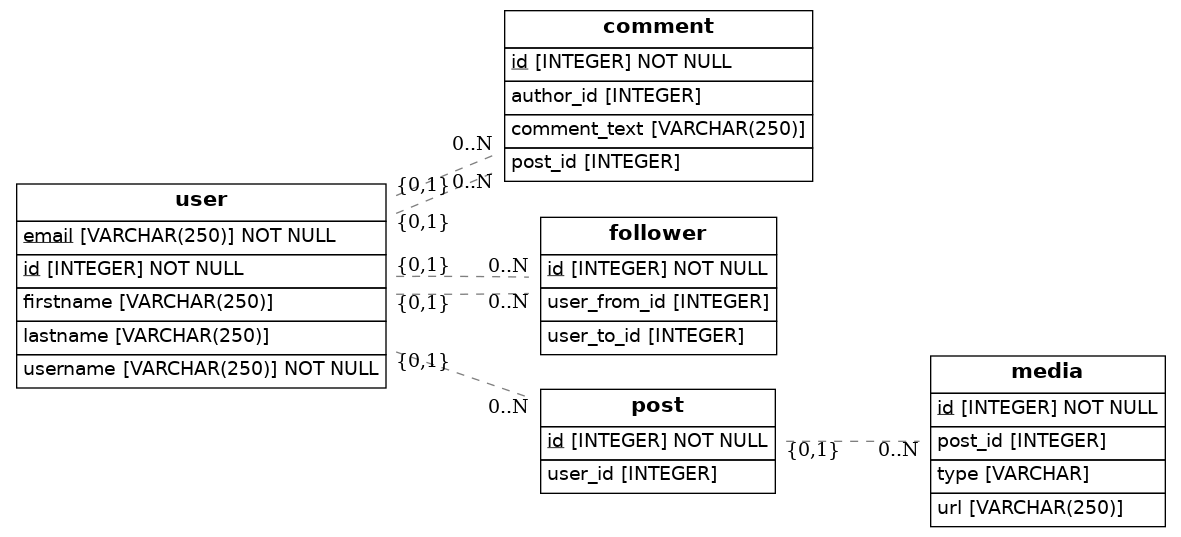
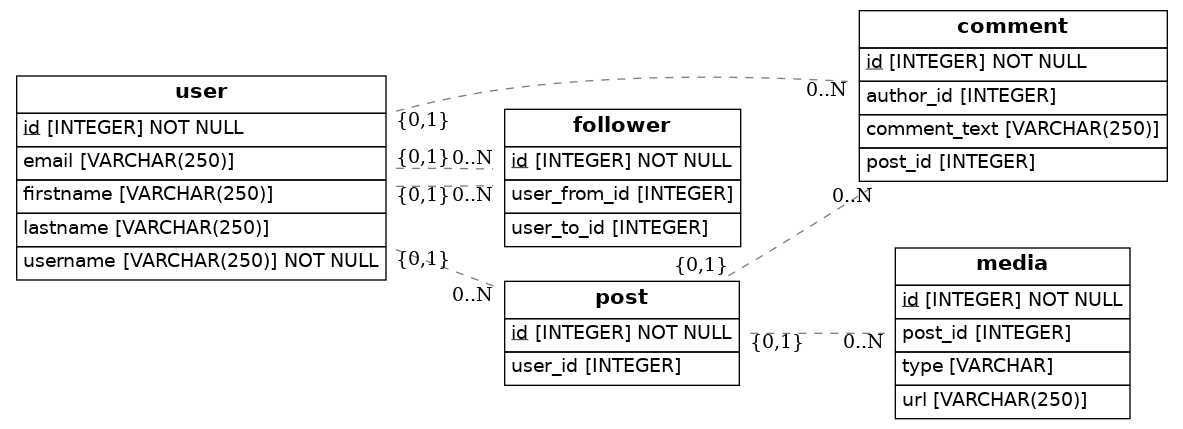
Cambios keys

Changed region(s): [[0.0, 0.0, 1.0, 1.0]]

diff --git a/src/models.py b/src/models.py
@@ -13,29 +13,33 @@ class User(Base):
     username = Column(String(250), nullable=False)
     firstname = Column(String(250))
     lastname = Column(String(250))
-    email = Column(String(250), primary_key=True)
-
+    email = Column(String(250), unique=True)  
 
 class Comment(Base):
     __tablename__ = 'comment'
     id = Column(Integer, primary_key=True)
     comment_text = Column(String(250))
     author_id = Column(Integer, ForeignKey('user.id'))
-    post_id = Column(Integer, ForeignKey('user.id'))
-    user = relationship(User)
+    post_id = Column(Integer, ForeignKey('post.id'))  
+
+    user = relationship("User")  
+    post = relationship("Post")  
 
 class Follower(Base):
     __tablename__ = 'follower'
     id = Column(Integer, primary_key=True)
     user_from_id = Column(Integer, ForeignKey('user.id'))
     user_to_id = Column(Integer, ForeignKey('user.id'))
-    user = relationship(User)
+
+    user_from = relationship("User", foreign_keys=[user_from_id])  
+    user_to = relationship("User", foreign_keys=[user_to_id])  
 
 class Post(Base):
     __tablename__ = 'post'
     id = Column(Integer, primary_key=True)
     user_id = Column(Integer, ForeignKey('user.id'))
-    user = relationship(User)
+
+    user = relationship("User")  
 
 class Media(Base):
     __tablename__ = 'media'
@@ -43,10 +47,8 @@ class Media(Base):
     type = Column(String)
     url = Column(String(250))
     post_id = Column(Integer, ForeignKey('post.id'))
-    post = relationship(Post)
 
-
-
+    post = relationship("Post")  
     def to_dict(self):
         return {}
 
@@ -55,5 +57,5 @@ try:
     result = render_er(Base, 'diagram.png')
     print("Success! Check the diagram.png file")
 except Exception as e:
-    print("There was a problem genering the diagram")
+    print("There was a problem generating the diagram")
     raise e
